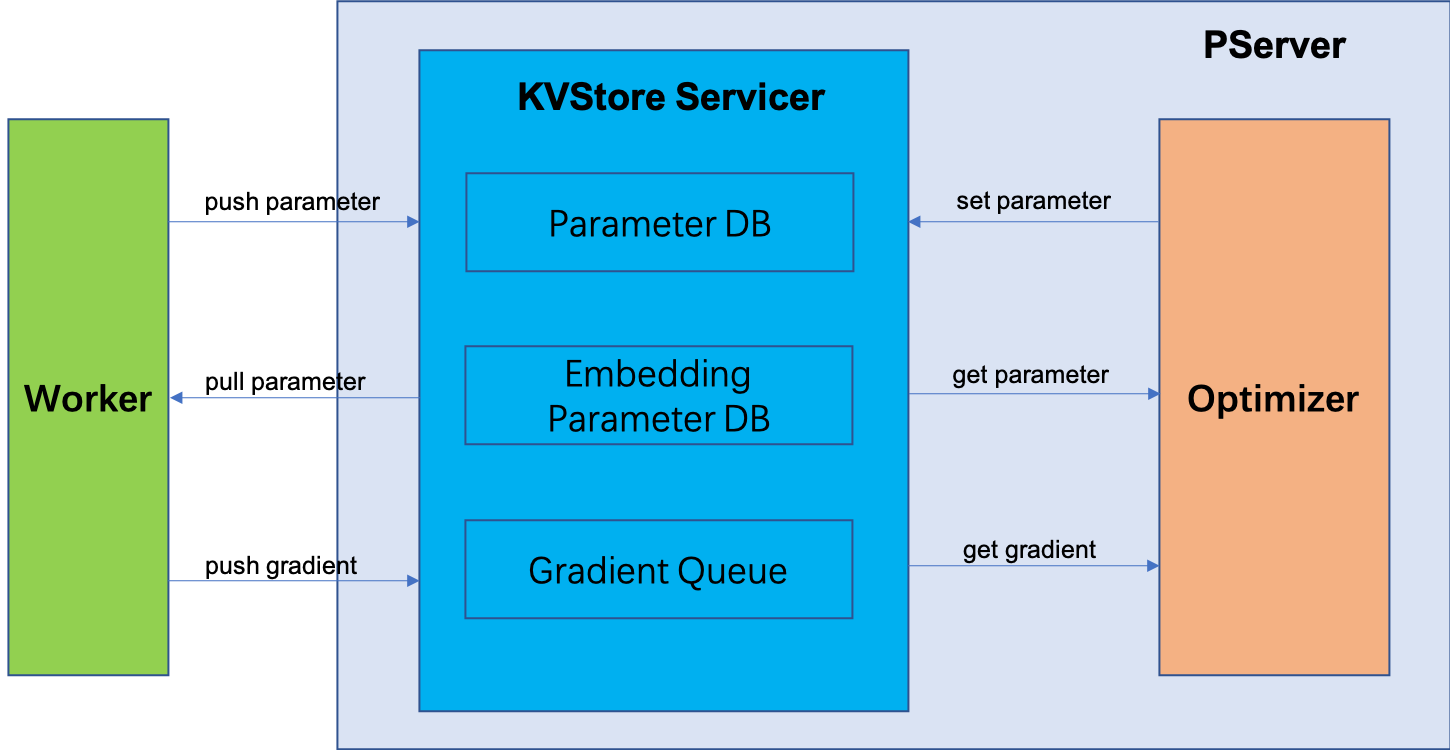
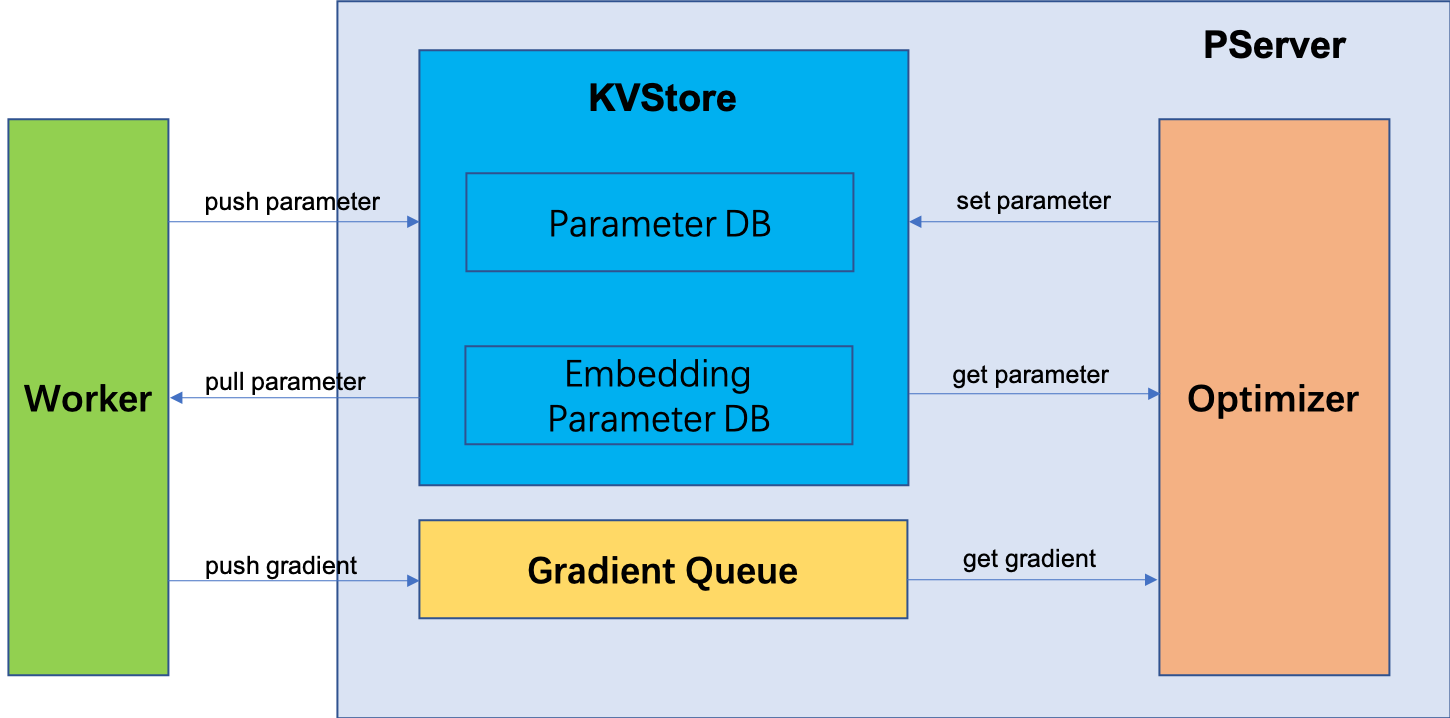
update the doc

diff --git a/doc/pserver.md b/doc/pserver.md
@@ -13,36 +13,37 @@
 ![pserver](./images/pserver.png)
 
 
-PServer contains two main compoments:
+PServer contains three main compoments:
 
-- KVStore Servier
+- KVStore
+- Gradient Queue
 - Optimizer
 
-1. The worker initializes a model, and push parameters to KVStore.
+1. The worker initializes a model, and pushes parameters to KVStore.
 2. Before each step of training, the worker pulls the latest model from KVStore.
-3. After forward/backward computation, the worker push gradients to KVStore. And KVStore will put the gradients to a Queue waiting for processing.
+3. After forward/backward computation, the worker push gradients to Gradient Queue waiting for processing.
 4. Optimizer gets a gradient from the Gradient Queue.
 5. Then, Optimizer looks up the corresponding parameter from KVStore.
 6. Optimizer applies gradients to parameters, and updates parameter back to KVStore.
 
 
-The interfaces of KVStore Servicer could be like this:
+The interfaces of KVStore could be like this:
 
 
 ```python
-class KVStoreServicer(elasticdl_pb2_grpc.KVStoreServicer):
+class KVStore(elasticdl_pb2_grpc.KVStoreServicer):
     def __init__(self):
         self.param_db = {}
         self.embedding_param_db = {}
-        self.grad_queue = queue.Queue()
 
-    def pull_param(self, request, _):
+    def pull_model(self, request, _):
         pass
 
-    def push_param(self, request, _):
+    def push_model(self, request, _):
         pass
-
-    def push_gradient(self, request, _):
+    
+    # embedding param is handled lazily   
+    def pull_embedding_param(self, reques, _):
         pass
 
     def get_param(self):
@@ -50,29 +51,28 @@ class KVStoreServicer(elasticdl_pb2_grpc.KVStoreServicer):
 
     def set_param(self):
         pass
+```
 
+
+The interface of Gradient Queue could be like this:
+
+```python
+
+class GradientQueue(elasticdl_pb2_grpc.GradientQueueServicer):
+    def __init__(self):
+        self.grad_queue = queue.Queue()
+        
+    def push_gradient(self, request, _):
+        pass
+    
     def get_gradient(self):
         pass
-
-    # embedding related interface is exposed explictly
-    def pull_embedding_param(self, request, _):
-        pass
-
-    def push_embedding_param(self, request, _):
-        pass
-
-    def push_embedding_gradient(self, request, _):
-        pass
-
-    def get_embedding_param(self):
-        pass
-
-    def set_embedding_param(self):
+        
+    def put_gradient(self):
         pass
 ```
 
-### Parameter Transfromation
-
+### Parameters Transfromation
 
 Parameters will be transformed into different data types in different stages.
 
@@ -90,8 +90,6 @@ Embedding parameter:
 - worker pushing parameter: serialized protobuf
 - KVStore embedding parameter DB: numpy ndarry based Python struct
 - optimizer: TensorFlow Variable
-
-
 
 We have to define a `Tensor` proto message and a corresponding `Tensor` Python class to support all these tranformations.
 
@@ -111,10 +109,9 @@ message Tensor {
     }
     string name = 1;
     DataType data_type = 2;
-    repeated int64 dim = 3;
+    repeated int64 dims = 3;
     bytes content = 4;
     repeated int64 indices = 5;
-    int64 version = 6;
 }
 ```
 
@@ -122,11 +119,10 @@ The `Tensor` Python class could be like this:
 
 ```python
 class Tensor(object):
-    def __init__(self, name=None, value=None, indices=None, version=None):
+    def __init__(self, name=None, value=None, indices=None):
         self.name = name
         self.value = value
         self.indices = indices
-        self.version = version
 ```
 
 There are also some helper functions:
@@ -145,6 +141,35 @@ def convert_to_tf_tensor(tensor):
     pass
 ```
 
+PServer will store a subset of the full model. And a worker will push/pull a submodel from the pserver. The model message is defined as following:
+
+```python
+message Model {
+    int64 version = 1;
+    repeated Tensor tensors = 2;
+}
+```
+
+Model could also be used as gradients collection.
+
+So the RPC service will be defined as following:
+
+```python
+message EmbeddingResponse{
+    Tensor value = 1;
+    repeated int64 unknown_indices = 2;
+}
+
+service KVStore{
+    rpc push_model(Model) returns (google.protobuf.Empty) {}
+    rpc pull_model(Model) returns (google.protobuf.Empty) {}
+    rpc pull_embedding_param(Tensor) returns (EmbeddingResponse) {}
+}
+
+service GradientQueue {
+    rpc push_gradient(Model) returns (google.protobuf.Empty) {}
+}
+```
 
 ### Gradient Queue
 
@@ -179,10 +204,23 @@ In sync mode, optimizer needs to wait for a certain number of gradients, and the
 We could implement a customized queue structure to support such logic efficiently.
 
 
+### Checkpoint
+
+
+
+### Evaluation
+
+
+
+## Replica of PServer
+
+
+
+
 ## Master
 
 
 ## Worker
 
 
-## Replica
+
